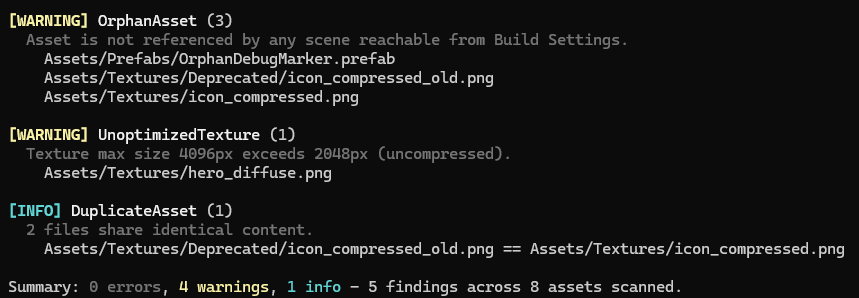
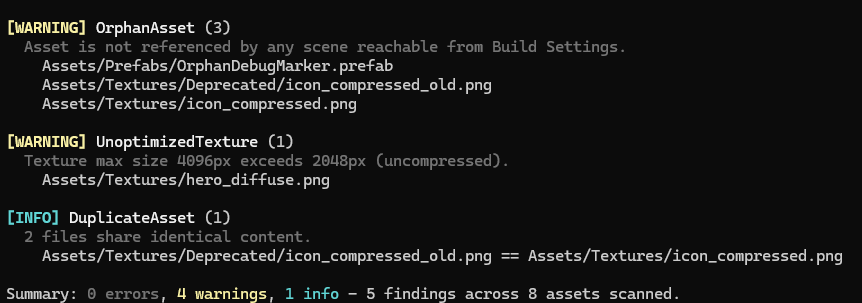
chore(cli): rename package and add NuGet metadata

diff --git a/README.md b/README.md
@@ -26,10 +26,10 @@ Esto no es un problema técnico: cuantos más assets tiene un proyecto, más cue
 Requiere el [SDK de .NET 10](https://dotnet.microsoft.com/download).
 
 ```bash
-dotnet tool install --global MiradorWorks.Forgekit
+dotnet tool install --global MiradorWorks.Forgekit --prerelease
 ```
 
-Para actualizar: `dotnet tool update --global MiradorWorks.Forgekit`
+Para actualizar: `dotnet tool update --global MiradorWorks.Forgekit --prerelease`.
 
 ## Uso
 
@@ -68,7 +68,7 @@ forgekit assetaudit --project <ruta-al-proyecto-unity>
 - uses: actions/setup-dotnet@v4
   with:
     dotnet-version: 10.0.x
-- run: dotnet tool install --global MiradorWorks.Forgekit
+- run: dotnet tool install --global MiradorWorks.Forgekit --prerelease
 - run: forgekit assetaudit --project . --fail-on error
 ```
 
